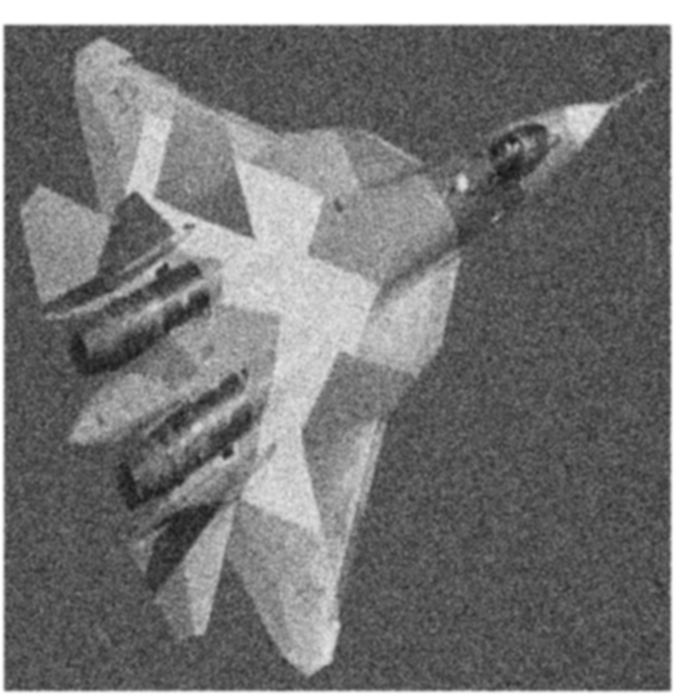
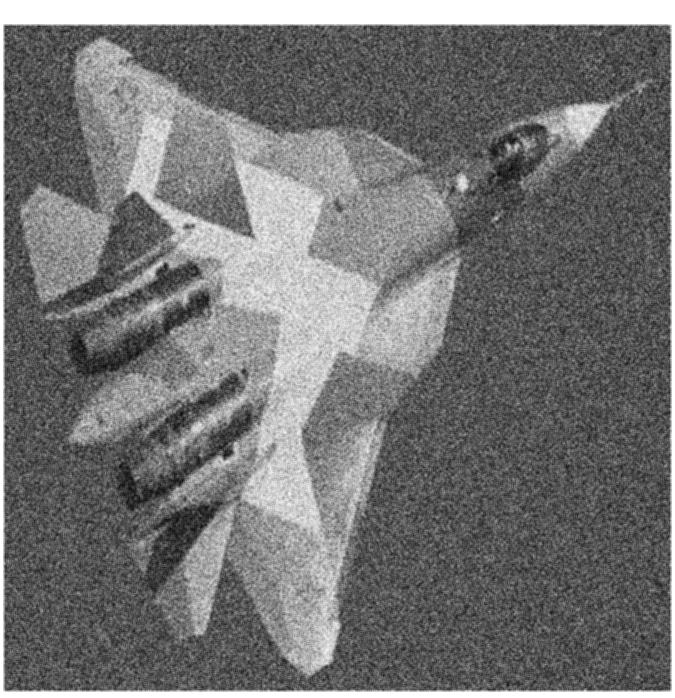
update: median filter

Changed region(s): [[0.9956, 0.0301, 1.0, 0.9928], [0.0, 0.9628, 0.0311, 0.9928], [0.0, 0.0301, 0.0311, 0.0602]]

diff --git a/src/modules/filter.module.ts b/src/modules/filter.module.ts
@@ -10,30 +10,33 @@ export class FilterModule implements IFilterModule {
     medianFilter(maskSize: number = 3) {
         const halfMaskSize = Math.floor(maskSize / 2)
         const { width, height, pixels } = this._transformedImage
-        const filtered: number[][] = []
+        const filtered: number[][] = Array.from({ length: height }, () => Array(width).fill(0))
 
-        for (let y = 0; y < height; y++) {
-            const row: number[] = []
-            for (let x = 0; x < width; x++) {
-                const neighbors: number[] = []
+        for (let row = 1; row < height; row++) {
+            for (let col = 1; col < width; col++) {
 
-                for (let ky = -halfMaskSize; ky <= halfMaskSize; ky++) {
-                    for (let kx = -halfMaskSize; kx <= halfMaskSize; kx++) {
-                        const nx = x + kx
-                        const ny = y + ky
-
-                        if (nx >= 0 && nx < width && ny >= 0 && ny < height) {
-                            neighbors.push(pixels[ny][nx])
+                // Create the 3x3 filter mask
+                const mask: number[] = []
+                for (let i = -halfMaskSize; i <= halfMaskSize; i++) {
+                    for (let j = -halfMaskSize; j <= halfMaskSize; j++) {
+                        const neighborRow = row + i;
+                        const neighborCol = col + j;
+                        if (
+                            neighborRow >= 0 &&
+                            neighborRow < height &&
+                            neighborCol >= 0 &&
+                            neighborCol < width
+                        ) {
+                            mask.push(pixels[neighborRow][neighborCol])
                         }
                     }
                 }
 
-                neighbors.sort((a, b) => a - b)
-                const median = neighbors[Math.floor(neighbors.length / 2)]
-
-                row.push(median)
+                // Sorted the neighbors pixels and set the mid pixel into the filtered array
+                const sortedNeighbors = mask.sort((a, b) => a - b)
+                const median = sortedNeighbors[Math.floor(sortedNeighbors.length / 2)]
+                filtered[row][col] = median;
             }
-            filtered.push(row)
         }
 
         return { ...this._transformedImage, pixels: filtered }
@@ -58,7 +61,7 @@ export class FilterModule implements IFilterModule {
                         }
                     }
                 }
-                filtered[y][x] = sum / count
+                filtered[y][x] = Math.floor(sum / count)
             }
         }
 

diff --git a/src/index.ts b/src/index.ts
@@ -8,12 +8,12 @@ import { ImageModule } from "./modules/image.module"
 async function main() {
     try {
         console.log('Running script')
-        const imagePath = 'images/gaussian/gaussian3.png'
+        const imagePath = 'images/gaussian/gaussian1.png'
         const imageModule = new ImageModule(imagePath)
         const transformed = await imageModule.transform()
 
         const filterModule = new FilterModule(transformed)
-        const filtered = imageModule.apply(filterModule, 3, "average")
+        const filtered = imageModule.apply(filterModule, 1, "average")
 
         const saved = await imageModule.build(filtered)
         console.log(saved)
